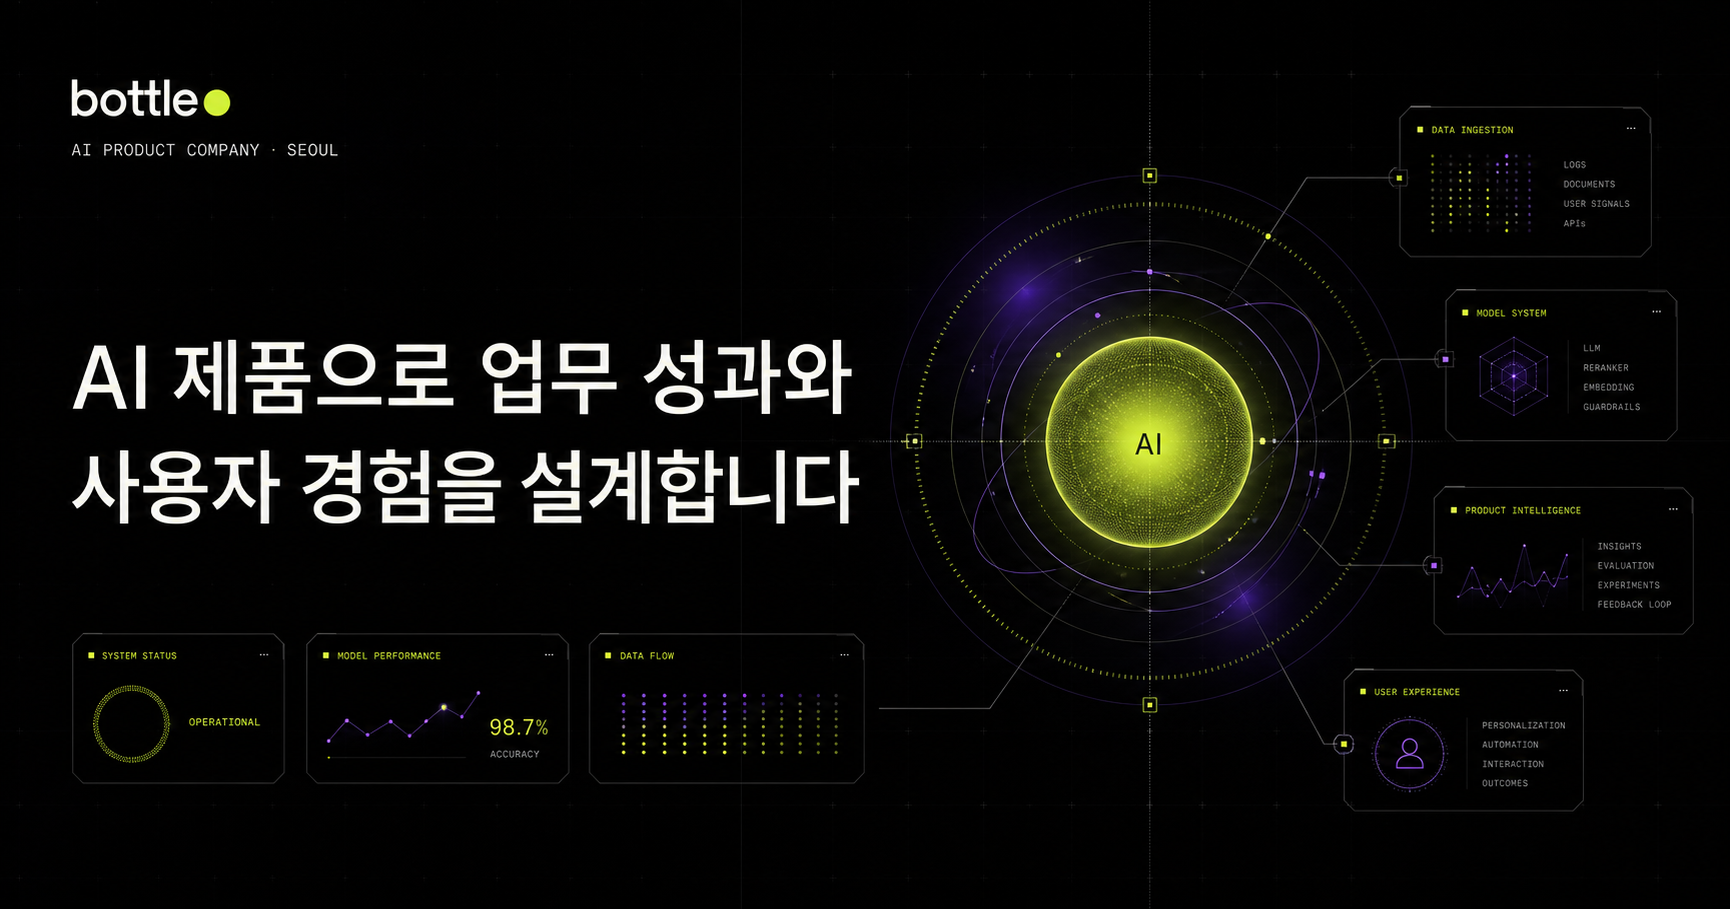
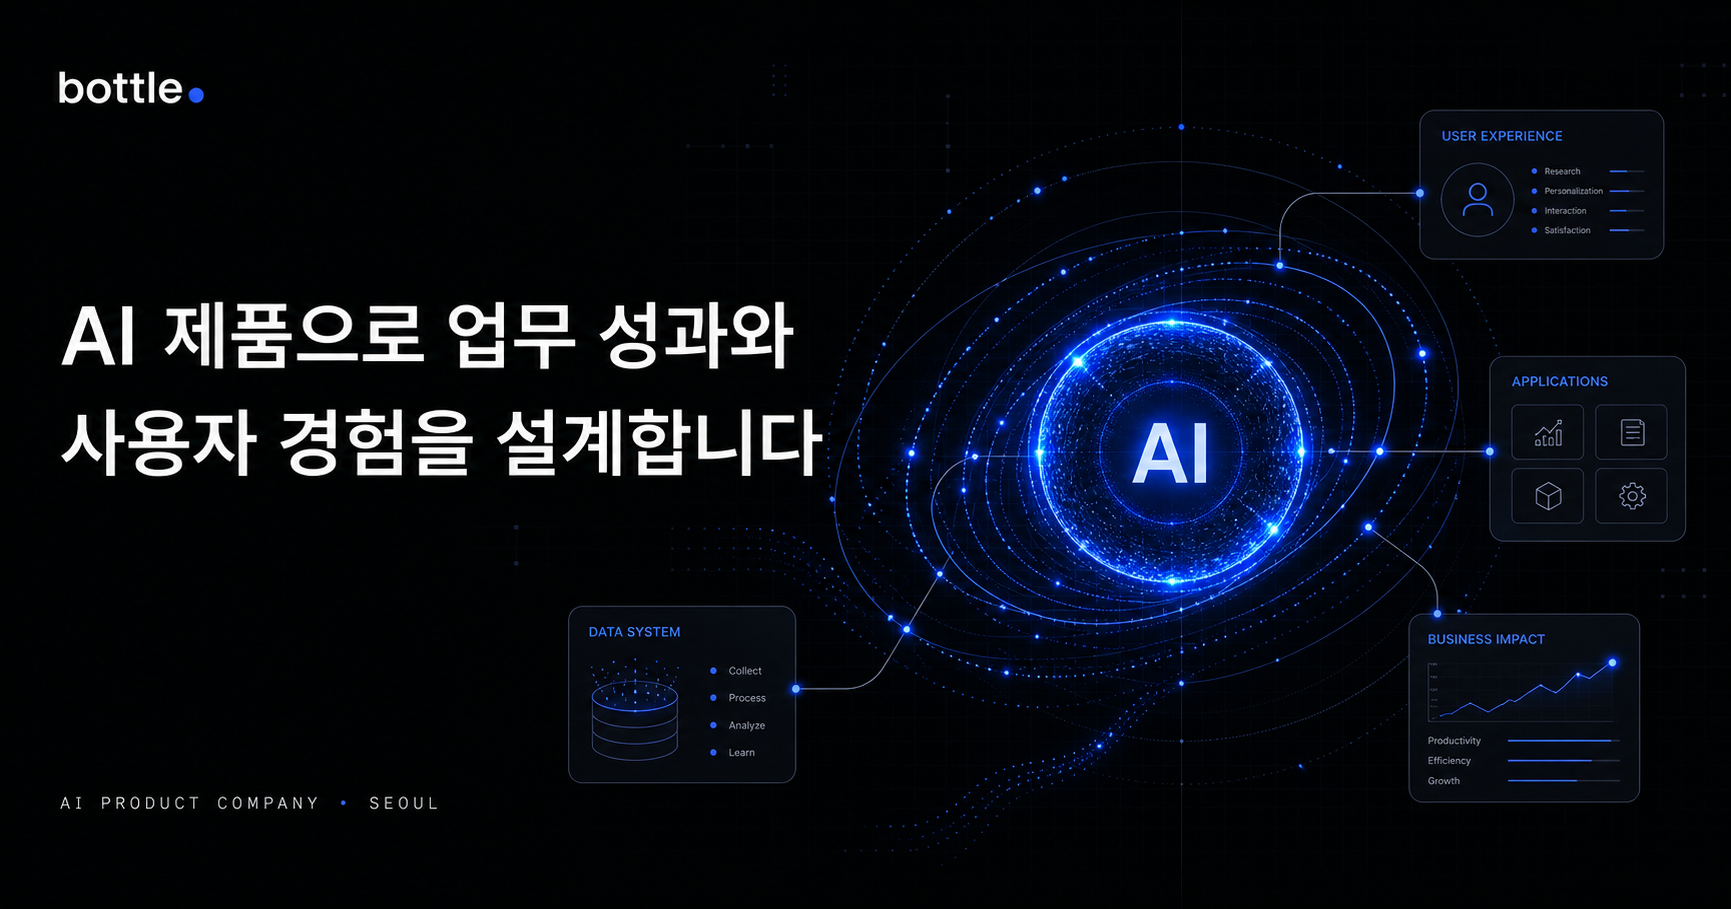
Adopt electric blue identity and rich interactions

diff --git a/public/script.js b/public/script.js
@@ -1,16 +1,21 @@
 (function () {
   "use strict";
 
-  var nav = document.querySelector(".site-nav");
+  var nav = document.querySelector(".nav");
   var menuButton = document.querySelector(".menu-toggle");
-  var menu = document.querySelector(".nav-menu");
-  var menuLinks = Array.prototype.slice.call(document.querySelectorAll(".nav-menu a"));
+  var menu = document.querySelector(".menu");
+  var menuLinks = Array.prototype.slice.call(document.querySelectorAll(".menu a"));
   var revealItems = Array.prototype.slice.call(document.querySelectorAll("[data-reveal]"));
   var reducedMotion = window.matchMedia("(prefers-reduced-motion: reduce)").matches;
+  var finePointer = window.matchMedia("(pointer: fine)").matches;
 
   function updateNav() {
     if (!nav) return;
     nav.classList.toggle("scrolled", window.scrollY > 24);
+    document.documentElement.style.setProperty(
+      "--scroll-width",
+      (Math.min(window.scrollY / Math.max(document.documentElement.scrollHeight - innerHeight, 1), 1) * 100) + "%"
+    );
   }
 
   function closeMenu() {
@@ -34,71 +39,98 @@
 
   updateNav();
   window.addEventListener("scroll", updateNav, { passive: true });
-
-  if (menuButton) {
-    menuButton.addEventListener("click", toggleMenu);
-  }
-
-  menuLinks.forEach(function (link) {
-    link.addEventListener("click", closeMenu);
-  });
-
-  window.addEventListener("resize", function () {
-    if (window.innerWidth > 820) closeMenu();
-  });
-
-  document.addEventListener("keydown", function (event) {
-    if (event.key === "Escape") closeMenu();
-  });
+  if (menuButton) menuButton.addEventListener("click", toggleMenu);
+  menuLinks.forEach(function (link) { link.addEventListener("click", closeMenu); });
+  window.addEventListener("resize", function () { if (innerWidth > 720) closeMenu(); });
+  document.addEventListener("keydown", function (event) { if (event.key === "Escape") closeMenu(); });
 
   if (reducedMotion || !("IntersectionObserver" in window)) {
-    revealItems.forEach(function (item) {
-      item.classList.add("show");
-    });
+    revealItems.forEach(function (item) { item.classList.add("show"); });
   } else {
-    var revealObserver = new IntersectionObserver(
-      function (entries, observer) {
-        entries.forEach(function (entry) {
-          if (!entry.isIntersecting) return;
-          var siblings = Array.prototype.slice.call(
-            entry.target.parentElement.querySelectorAll(":scope > [data-reveal]")
-          );
-          var index = siblings.indexOf(entry.target);
-          entry.target.style.animationDelay = Math.min(Math.max(index, 0) * 70, 280) + "ms";
-          entry.target.classList.add("show");
-          observer.unobserve(entry.target);
-        });
-      },
-      { rootMargin: "0px 0px -8% 0px", threshold: 0.12 }
-    );
-
-    revealItems.forEach(function (item) {
-      revealObserver.observe(item);
-    });
+    var revealObserver = new IntersectionObserver(function (entries, observer) {
+      entries.forEach(function (entry) {
+        if (!entry.isIntersecting) return;
+        var siblings = Array.prototype.slice.call(entry.target.parentElement.querySelectorAll(":scope > [data-reveal]"));
+        entry.target.style.transitionDelay = Math.min(Math.max(siblings.indexOf(entry.target), 0) * 70, 280) + "ms";
+        entry.target.classList.add("show");
+        observer.unobserve(entry.target);
+      });
+    }, { rootMargin: "0px 0px -8% 0px", threshold: 0.12 });
+    revealItems.forEach(function (item) { revealObserver.observe(item); });
   }
 
   if ("IntersectionObserver" in window) {
-    var trackedSections = Array.prototype.slice.call(
-      document.querySelectorAll("#products, #erp, #approach, #contact")
-    );
-    var sectionObserver = new IntersectionObserver(
-      function (entries) {
-        entries.forEach(function (entry) {
-          if (!entry.isIntersecting) return;
-          menuLinks.forEach(function (link) {
-            link.classList.toggle("active", link.getAttribute("href") === "#" + entry.target.id);
-          });
-        });
-      },
-      { rootMargin: "-35% 0px -55% 0px", threshold: 0 }
-    );
-
-    trackedSections.forEach(function (section) {
-      sectionObserver.observe(section);
-    });
+    var sections = Array.prototype.slice.call(document.querySelectorAll("#products, #capability, #process, #contact"));
+    var sectionObserver = new IntersectionObserver(function (entries) {
+      entries.forEach(function (entry) {
+        if (!entry.isIntersecting) return;
+        menuLinks.forEach(function (link) { link.classList.toggle("active", link.getAttribute("href") === "#" + entry.target.id); });
+      });
+    }, { rootMargin: "-35% 0px -55% 0px", threshold: 0 });
+    sections.forEach(function (section) { sectionObserver.observe(section); });
   }
 
   document.querySelectorAll("[data-year]").forEach(function (element) {
     element.textContent = String(new Date().getFullYear());
   });
+
+  if (!reducedMotion) {
+    var core = document.querySelector(".ai-core");
+    var stage = document.querySelector(".core-stage");
+    if (stage) {
+      for (var p = 0; p < 28; p += 1) {
+        var particle = document.createElement("i");
+        particle.className = "data-particle";
+        particle.style.setProperty("--x", (8 + Math.random() * 84) + "%");
+        particle.style.setProperty("--y", (8 + Math.random() * 84) + "%");
+        particle.style.setProperty("--delay", (-Math.random() * 6) + "s");
+        particle.style.setProperty("--speed", (3 + Math.random() * 5) + "s");
+        stage.appendChild(particle);
+      }
+    }
+
+    function depthMove(element, event, amount) {
+      var box = element.getBoundingClientRect();
+      var x = (event.clientX - box.left) / box.width - 0.5;
+      var y = (event.clientY - box.top) / box.height - 0.5;
+      element.style.setProperty("--rx", (-y * amount) + "deg");
+      element.style.setProperty("--ry", (x * amount) + "deg");
+      element.style.setProperty("--mx", (x + 0.5) * 100 + "%");
+      element.style.setProperty("--my", (y + 0.5) * 100 + "%");
+    }
+
+    if (core && finePointer) {
+      core.addEventListener("pointermove", function (event) { depthMove(core, event, 7); });
+      core.addEventListener("pointerleave", function () { core.style.setProperty("--rx", "0deg"); core.style.setProperty("--ry", "0deg"); });
+    }
+
+    document.querySelectorAll(".product, .cap-grid article").forEach(function (card) {
+      if (!finePointer) return;
+      card.addEventListener("pointermove", function (event) { depthMove(card, event, 3.5); });
+      card.addEventListener("pointerleave", function () { card.style.setProperty("--rx", "0deg"); card.style.setProperty("--ry", "0deg"); });
+    });
+
+    document.querySelectorAll(".btn, .nav-cta, .contact .shell>a").forEach(function (button) {
+      if (!finePointer) return;
+      button.classList.add("magnetic");
+      button.addEventListener("pointermove", function (event) {
+        var box = button.getBoundingClientRect();
+        button.style.transform = "translate(" + (event.clientX - box.left - box.width / 2) * 0.1 + "px," + (event.clientY - box.top - box.height / 2) * 0.16 + "px)";
+      });
+      button.addEventListener("pointerleave", function () { button.style.transform = ""; });
+    });
+
+    if (finePointer) {
+      var cursor = document.createElement("div");
+      cursor.className = "cursor-glow";
+      document.body.appendChild(cursor);
+      window.addEventListener("pointermove", function (event) {
+        cursor.style.transform = "translate3d(" + event.clientX + "px," + event.clientY + "px,0)";
+      }, { passive: true });
+      document.querySelectorAll("a, button, .product, .cap-grid article").forEach(function (target) {
+        target.addEventListener("pointerenter", function () { cursor.classList.add("is-active"); });
+        target.addEventListener("pointerleave", function () { cursor.classList.remove("is-active"); });
+      });
+    }
+  }
 })();

diff --git a/public/styles.css b/public/styles.css
@@ -2,3 +2,18 @@
 @media(max-width:1050px){.hero-inner{grid-template-columns:1fr}.hero h1{width:auto}.ai-core{margin-top:0;max-width:680px}.heading-row{grid-template-columns:180px 1fr}.heading-row>p{display:none}.product-grid{grid-template-columns:1fr}.bloom{grid-column:auto}.cap-grid{grid-template-columns:repeat(2,1fr)}.split{grid-template-columns:170px 1fr}}
 @media(max-width:720px){.shell{width:calc(100% - 36px)}.section{padding:95px 0}.nav-inner{width:calc(100% - 36px)}.menu-toggle{display:block;width:38px;height:38px}.menu-toggle i{display:block;width:22px;height:1px;background:#fff;margin:6px auto}.menu{display:none;position:fixed;inset:70px 0 0;background:#080908;padding:40px 18px;flex-direction:column;align-items:stretch;gap:0}.menu.open{display:flex}.menu>a{padding:20px;border-bottom:1px solid var(--line);font-size:15px}.nav-cta{margin-top:20px}.hero{padding-top:125px;min-height:auto}.hero-inner{gap:48px}.status{margin-bottom:12px}.status span{display:none}.hero h1{font-size:clamp(40px,12vw,62px);line-height:1.12}.hero h1 br{display:none}.hero-lead{font-size:16px;line-height:1.7}.hero-actions{flex-direction:column}.btn{width:100%}.ai-core{height:440px}.core-stage{height:348px}.rings{width:135px;height:135px}.n1{top:22px}.n2{top:128px}.n3{bottom:20px}.hero-metrics{grid-template-columns:1fr 1fr}.hero-metrics>div{border-bottom:1px solid var(--line)}.split,.heading-row,.inverse{grid-template-columns:1fr;gap:36px}.section-label{margin-bottom:10px}.statement h2,.heading-row h2,.process h2{font-size:39px}.statement-text{font-size:16px;margin-top:32px}.heading-row{margin-bottom:45px}.product{min-height:700px;padding:20px}.product.feature{min-height:790px}.product-copy{margin-top:55px}.product h3{font-size:34px}.phone-stack{width:88%;height:56%;bottom:-8%;right:-8%}.screen-pair{width:85%}.tech-tags{left:20px;bottom:18px;flex-wrap:wrap}.bloom .product-copy{margin-top:190px}.cap-grid{grid-template-columns:1fr}.cap-grid article{min-height:330px}.cap-grid article>i{margin:38px 0 24px}.process-list article{grid-template-columns:45px 105px 1fr 20px}.process-list p{font-size:13px}.contact{padding-top:110px}.contact h2{font-size:48px}.contact-foot{margin-top:100px;gap:20px}.contact-foot span:last-child{text-align:right}footer .shell p:nth-child(2){display:none}}
 @media(prefers-reduced-motion:reduce){html{scroll-behavior:auto}.rings{animation:none}.js [data-reveal]{opacity:1;transform:none}}
+
+/* Electric blue identity + interactive layer */
+:root{--lime:#4f7cff;--blue:#4f7cff;--blue-bright:#79a1ff;--blue-deep:#234dff;--line:#252b3a}
+body:before{content:"";position:fixed;z-index:200;left:0;top:0;width:var(--scroll-width,0%);height:2px;background:linear-gradient(90deg,#234dff,#79a1ff);box-shadow:0 0 16px #4f7cff;pointer-events:none}
+.a1{background:#245fff;opacity:.34}.a2{background:#3f18df;opacity:.2}.hero h1 em{background:linear-gradient(90deg,#8eb0ff,#4f7cff);background-clip:text;-webkit-background-clip:text;color:transparent;text-shadow:0 0 42px rgba(79,124,255,.2)}
+.statement h2 em{background:#2d63ff;color:#fff}.core-stage{background:radial-gradient(circle at var(--mx,50%) var(--my,50%),rgba(79,124,255,.22),transparent 38%)}
+.rings{border-color:#4f6fa9;box-shadow:0 0 80px rgba(35,77,255,.18)}.rings i{border-color:#304265}.rings i:nth-child(3){background:rgba(79,124,255,.15);box-shadow:0 0 52px rgba(79,124,255,.55)}
+.node{border-color:#314a7e;background:rgba(10,16,31,.92)}.node small{color:#79a1ff}.bloom{background:linear-gradient(145deg,#3167ff,#1745e8);border-color:#6b8fff;color:#fff}.bloom .product-copy p{color:#c7d4ff}.bloom-orb{border-color:rgba(255,255,255,.45)}.bloom-orb:before,.bloom-orb:after,.bloom-orb i{border-color:rgba(255,255,255,.25)}.bloom-orb i{background:#071126}.bloom-orb b{color:#79a1ff}.bloom .tech-tags span{border-color:rgba(255,255,255,.45)}
+.ai-core,.product,.cap-grid article{transform:perspective(1100px) rotateX(var(--rx,0deg)) rotateY(var(--ry,0deg));transform-style:preserve-3d;transition:transform .3s cubic-bezier(.2,.8,.2,1),border-color .3s,box-shadow .3s}.ai-core:after,.product:after,.cap-grid article:after{content:"";position:absolute;inset:0;z-index:6;pointer-events:none;opacity:0;background:radial-gradient(420px circle at var(--mx,50%) var(--my,50%),rgba(91,139,255,.16),transparent 42%);transition:opacity .3s}.ai-core:hover:after,.product:hover:after,.cap-grid article:hover:after{opacity:1}.ai-core:hover{border-color:#4f7cff;box-shadow:0 45px 120px rgba(25,66,200,.25)}.product:hover{box-shadow:0 30px 80px rgba(20,43,110,.16)}.product>*{transform:translateZ(12px)}.product .phone-stack,.product .screen-pair{transform:translateZ(35px) rotate(8deg)}.product .screen-pair{transform:translateZ(35px) rotate(-5deg)}.cap-grid article:hover{border-color:#405d9c;background:#101728}.cap-grid article>*{position:relative;z-index:7}
+.data-particle{position:absolute;z-index:1;left:var(--x);top:var(--y);width:2px;height:2px;border-radius:50%;background:#79a1ff;box-shadow:0 0 8px #4f7cff;animation:data-float var(--speed) ease-in-out var(--delay) infinite;pointer-events:none}@keyframes data-float{0%,100%{opacity:.15;transform:translateY(8px) scale(.7)}50%{opacity:1;transform:translateY(-14px) scale(1.5)}}
+.magnetic{transition:transform .18s ease,background .25s,color .25s,border-color .25s}.primary{background:linear-gradient(135deg,#5d89ff,#315fff);color:#fff;box-shadow:0 12px 35px rgba(49,95,255,.28)}.primary:hover{background:linear-gradient(135deg,#7aa0ff,#3c6cff)}.ghost:hover,.nav-cta:hover{border-color:#4f7cff;background:rgba(79,124,255,.12)}.menu>a.active:not(.nav-cta){color:#79a1ff}.cursor-glow{position:fixed;z-index:90;left:-110px;top:-110px;width:220px;height:220px;border-radius:50%;pointer-events:none;background:radial-gradient(circle,rgba(54,105,255,.12),rgba(54,105,255,0) 68%);transition:width .25s,height .25s,margin .25s,opacity .25s;will-change:transform}.cursor-glow.is-active{width:300px;height:300px;margin:-40px;opacity:1}
+.contact{background:radial-gradient(circle at 80% 30%,rgba(42,87,255,.22),transparent 38%),#0a0d16}.contact .shell>a:hover{border-color:#4f7cff;color:#8eafff}.capability{background:radial-gradient(circle at 15% 20%,rgba(31,74,205,.13),transparent 28%),#080a10}
+.cap-grid article>small{position:absolute}
+@media(max-width:720px){.cursor-glow{display:none}.ai-core,.product,.cap-grid article{transform:none}.hero h1 em{text-shadow:none}}
+@media(prefers-reduced-motion:reduce){body:before{display:none}.data-particle,.cursor-glow{display:none}.ai-core,.product,.cap-grid article{transform:none!important;transition:none}.magnetic{transform:none!important}}